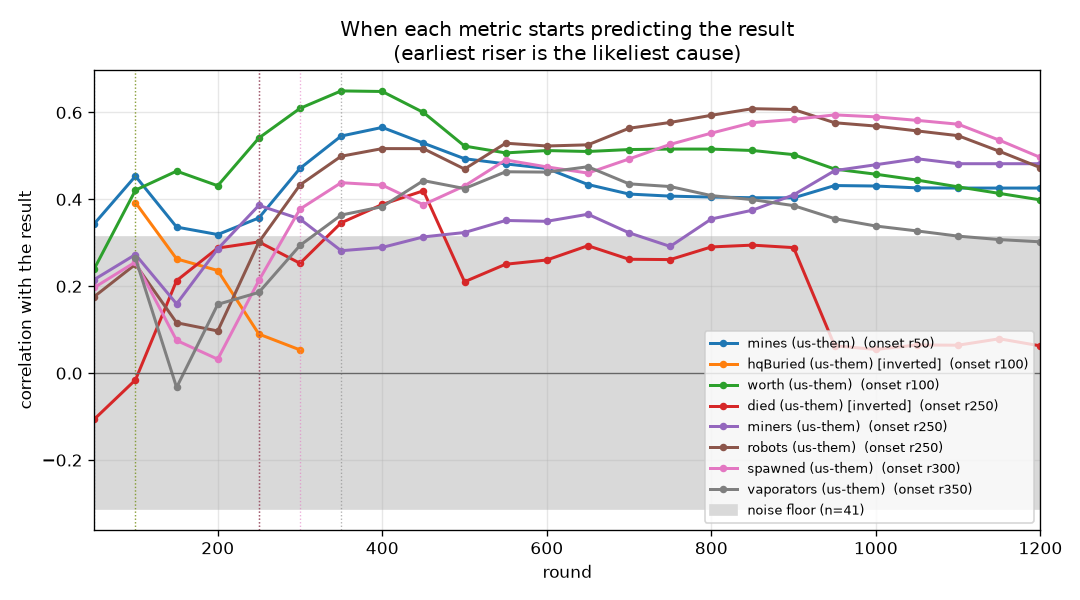
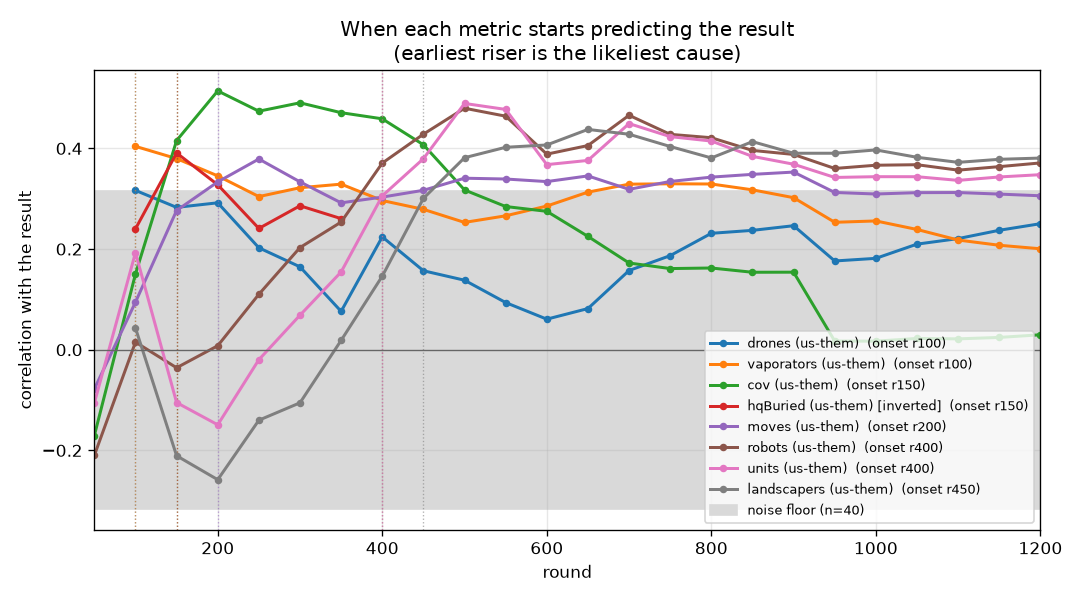
Submission block 20260926-050207-scrim-g_iter12 posted (g_iter12)
Claude-Session: https://claude.ai/code/session_015tNyF5ucwWW1mudpEQTT25

diff --git a/progress/ONSET.md b/progress/ONSET.md
@@ -1,6 +1,6 @@
 # Which metric starts predicting the result first
 
-41 games, 20 wins. Noise floor about 0.31; a correlation inside that band is not evidence.
+40 games, 20 wins. Noise floor about 0.32; a correlation inside that band is not evidence.
 
 Every metric is oriented so **higher is better for us**, so a positive correlation always means
 "this being better goes with winning". `~avg` is the running mean over all rounds so far rather than
@@ -12,46 +12,46 @@ See `progress/METRICS.md` for how each quantity is computed.
 
 | onset | anti | metric | peak corr | r100 | r200 | r300 | r400 | r600 | r900 |
 |---|---|---|---|---|---|---|---|---|---|
-| r50 | - | mines (us-them) | +0.57 | +0.45 | +0.32 | +0.47 | +0.57 | +0.47 | +0.40 |
-| r50 | - | mines (us-them) ~avg | +0.54 | +0.44 | +0.37 | +0.39 | +0.45 | +0.52 | +0.50 |
-| r100 | - | hqBuried (us-them) [inverted] | +0.39 | +0.39 | +0.24 | +0.05 | . | . | . |
-| r100 | - | hqBuried (us-them) [inverted] ~avg | +0.40 | +0.40 | +0.23 | +0.07 | -0.15 | -0.14 | -0.14 |
-| r100 | - | worth (us-them) | +0.65 | +0.42 | +0.43 | +0.61 | +0.65 | +0.51 | +0.50 |
-| r100 | - | worth (us-them) ~avg | +0.65 | +0.39 | +0.50 | +0.58 | +0.65 | +0.60 | +0.55 |
-| r250 | - | died (us-them) [inverted] | +0.42 | -0.02 | +0.29 | +0.25 | +0.39 | +0.26 | +0.29 |
-| r250 | - | miners (us-them) | +0.49 | +0.27 | +0.29 | +0.35 | +0.29 | +0.35 | +0.41 |
-| r250 | - | robots (us-them) | +0.61 | +0.25 | +0.10 | +0.43 | +0.52 | +0.52 | +0.61 |
-| r300 | - | miners (us-them) ~avg | +0.50 | +0.28 | +0.23 | +0.30 | +0.30 | +0.31 | +0.34 |
-| r300 | - | spawned (us-them) | +0.59 | +0.26 | +0.03 | +0.38 | +0.43 | +0.47 | +0.58 |
-| r350 | - | died (us-them) [inverted] ~avg | +0.39 | -0.02 | +0.20 | +0.27 | +0.37 | +0.32 | +0.31 |
-| r350 | - | robots (us-them) ~avg | +0.61 | +0.25 | +0.14 | +0.25 | +0.41 | +0.54 | +0.61 |
-| r350 | - | vaporators (us-them) | +0.48 | +0.26 | +0.16 | +0.29 | +0.38 | +0.46 | +0.39 |
-| r350 | - | vaporators (us-them) ~avg | +0.48 | +0.26 | +0.15 | +0.24 | +0.34 | +0.47 | +0.46 |
-| r400 | - | units (us-them) | +0.58 | +0.34 | +0.10 | +0.25 | +0.32 | +0.47 | +0.58 |
-| r500 | - | spawned (us-them) ~avg | +0.63 | +0.25 | +0.11 | +0.19 | +0.28 | +0.46 | +0.57 |
-| r550 | - | landscapers (us-them) | +0.51 | +0.09 | -0.09 | -0.07 | +0.07 | +0.40 | +0.50 |
-| r550 | - | units (us-them) ~avg | +0.58 | +0.34 | +0.15 | +0.18 | +0.23 | +0.36 | +0.57 |
-| r600 | - | digs (us-them) | +0.50 | -0.00 | +0.27 | +0.27 | +0.26 | +0.32 | +0.48 |
-| r600 | - | dirtDeps (us-them) | +0.49 | +0.14 | +0.26 | +0.25 | +0.25 | +0.30 | +0.46 |
-| r600 | - | moves (us-them) | +0.52 | +0.23 | +0.26 | +0.24 | +0.23 | +0.30 | +0.42 |
-| r650 | - | pickups (us-them) | +0.37 | +0.10 | +0.05 | +0.23 | +0.30 | +0.30 | +0.34 |
-| r700 | - | pickups (us-them) ~avg | +0.33 | +0.10 | +0.05 | +0.19 | +0.27 | +0.29 | +0.33 |
-| r750 | - | digs (us-them) ~avg | +0.48 | -0.02 | +0.19 | +0.24 | +0.24 | +0.25 | +0.38 |
-| r750 | - | landscapers (us-them) ~avg | +0.47 | +0.11 | -0.10 | -0.12 | -0.07 | +0.11 | +0.45 |
-| r750 | - | moves (us-them) ~avg | +0.44 | +0.23 | +0.26 | +0.25 | +0.23 | +0.25 | +0.35 |
-| r800 | - | dirtDeps (us-them) ~avg | +0.46 | +0.11 | +0.21 | +0.22 | +0.22 | +0.23 | +0.35 |
-| r900 | r200 | netguns (us-them) | +0.32 | . | -0.32 | -0.19 | -0.19 | +0.26 | +0.30 |
-| r1150 | - | drones (us-them) | +0.36 | +0.20 | +0.08 | +0.29 | +0.29 | +0.12 | +0.30 |
-| - | r750 | aba (us-them) [inverted] | -0.41 | +0.16 | -0.17 | -0.09 | +0.03 | -0.22 | -0.37 |
-| - | r1050 | aba (us-them) [inverted] ~avg | -0.35 | +0.16 | -0.11 | -0.10 | -0.01 | -0.10 | -0.28 |
-| - | - | cov (us-them) | -0.24 | -0.02 | -0.15 | -0.19 | -0.05 | -0.03 | -0.09 |
-| - | - | cov (us-them) ~avg | -0.28 | -0.06 | -0.21 | -0.25 | -0.23 | -0.12 | -0.12 |
-| - | - | drones (us-them) ~avg | +0.29 | +0.20 | +0.18 | +0.27 | +0.29 | +0.20 | +0.26 |
+| r100 | - | drones (us-them) | +0.32 | +0.32 | +0.29 | +0.16 | +0.22 | +0.06 | +0.25 |
+| r100 | - | drones (us-them) ~avg | +0.35 | +0.35 | +0.33 | +0.27 | +0.20 | +0.16 | +0.20 |
+| r100 | - | vaporators (us-them) | +0.40 | +0.40 | +0.35 | +0.32 | +0.30 | +0.29 | +0.30 |
+| r100 | - | vaporators (us-them) ~avg | +0.40 | +0.40 | +0.39 | +0.33 | +0.30 | +0.26 | +0.28 |
+| r150 | - | cov (us-them) | +0.51 | +0.15 | +0.51 | +0.49 | +0.46 | +0.27 | +0.15 |
+| r150 | - | hqBuried (us-them) [inverted] | +0.39 | +0.24 | +0.33 | +0.29 | . | . | . |
+| r150 | - | hqBuried (us-them) [inverted] ~avg | +0.36 | +0.23 | +0.28 | +0.22 | +0.20 | +0.23 | +0.26 |
+| r200 | - | cov (us-them) ~avg | +0.49 | +0.06 | +0.38 | +0.44 | +0.49 | +0.37 | +0.27 |
+| r200 | - | moves (us-them) | +0.38 | +0.09 | +0.33 | +0.33 | +0.30 | +0.33 | +0.35 |
+| r250 | - | moves (us-them) ~avg | +0.34 | +0.04 | +0.27 | +0.34 | +0.31 | +0.33 | +0.33 |
+| r400 | - | robots (us-them) | +0.48 | +0.02 | +0.01 | +0.20 | +0.37 | +0.39 | +0.39 |
+| r400 | - | units (us-them) | +0.49 | +0.19 | -0.15 | +0.07 | +0.31 | +0.37 | +0.37 |
+| r450 | - | landscapers (us-them) | +0.44 | +0.04 | -0.26 | -0.11 | +0.15 | +0.41 | +0.39 |
+| r450 | - | spawned (us-them) | +0.44 | -0.01 | -0.06 | +0.21 | +0.30 | +0.36 | +0.41 |
+| r450 | - | worth (us-them) | +0.38 | +0.18 | +0.18 | +0.18 | +0.26 | +0.32 | +0.36 |
+| r500 | - | miners (us-them) | +0.34 | +0.11 | -0.07 | +0.25 | +0.28 | +0.14 | +0.11 |
+| r500 | - | robots (us-them) ~avg | +0.41 | -0.06 | -0.13 | +0.00 | +0.13 | +0.37 | +0.40 |
+| r550 | - | netguns (us-them) | +0.43 | . | +0.19 | +0.17 | +0.22 | +0.37 | +0.41 |
+| r550 | - | units (us-them) ~avg | +0.41 | +0.09 | -0.19 | -0.10 | +0.03 | +0.33 | +0.41 |
+| r650 | - | netguns (us-them) ~avg | +0.40 | . | +0.21 | +0.17 | +0.19 | +0.28 | +0.37 |
+| r650 | - | spawned (us-them) ~avg | +0.38 | -0.08 | -0.18 | -0.03 | +0.09 | +0.29 | +0.38 |
+| r700 | r200 | landscapers (us-them) ~avg | +0.44 | +0.03 | -0.32 | -0.23 | -0.11 | +0.22 | +0.44 |
+| r800 | - | worth (us-them) ~avg | +0.31 | +0.12 | +0.09 | +0.13 | +0.15 | +0.28 | +0.31 |
+| - | r400 | aba (us-them) [inverted] | -0.35 | +0.08 | +0.05 | -0.08 | -0.30 | -0.30 | -0.34 |
+| - | r1100 | aba (us-them) [inverted] ~avg | -0.32 | +0.04 | +0.00 | -0.03 | -0.15 | -0.26 | -0.28 |
+| - | - | died (us-them) [inverted] | +0.24 | +0.21 | +0.19 | +0.01 | +0.23 | +0.10 | +0.04 |
+| - | - | died (us-them) [inverted] ~avg | +0.23 | +0.21 | +0.17 | +0.09 | +0.13 | +0.20 | +0.17 |
+| - | - | digs (us-them) | +0.25 | +0.06 | -0.22 | -0.11 | +0.01 | +0.13 | +0.14 |
+| - | - | digs (us-them) ~avg | -0.21 | +0.03 | -0.21 | -0.17 | -0.06 | +0.09 | +0.13 |
+| - | - | dirtDeps (us-them) | -0.26 | +0.09 | -0.26 | -0.13 | -0.01 | +0.10 | +0.12 |
+| - | - | dirtDeps (us-them) ~avg | -0.29 | +0.07 | -0.29 | -0.20 | -0.08 | +0.08 | +0.11 |
 | - | - | drowned (us-them) [inverted] | . | . | . | . | . | . | . |
 | - | - | drowned (us-them) [inverted] ~avg | . | . | . | . | . | . | . |
-| - | r200 | netguns (us-them) ~avg | -0.32 | . | -0.32 | -0.23 | -0.21 | -0.02 | +0.16 |
-| - | r700 | soup (us-them) | -0.47 | +0.08 | +0.22 | +0.16 | +0.03 | -0.21 | -0.40 |
-| - | - | soup (us-them) ~avg | +0.28 | +0.12 | +0.24 | +0.25 | +0.27 | +0.10 | -0.23 |
+| - | - | miners (us-them) ~avg | +0.26 | +0.01 | -0.12 | -0.01 | +0.11 | +0.25 | +0.17 |
+| - | - | mines (us-them) | +0.29 | +0.24 | +0.06 | +0.08 | +0.17 | +0.28 | +0.29 |
+| - | - | mines (us-them) ~avg | +0.23 | +0.20 | +0.03 | +0.03 | +0.07 | +0.20 | +0.22 |
+| - | - | pickups (us-them) | +0.09 | +0.07 | +0.09 | -0.00 | +0.01 | -0.08 | -0.04 |
+| - | - | pickups (us-them) ~avg | +0.13 | +0.13 | +0.05 | +0.01 | -0.01 | -0.05 | -0.06 |
+| - | r300 | soup (us-them) | -0.46 | +0.14 | -0.12 | -0.46 | -0.34 | -0.16 | -0.10 |
+| - | r350 | soup (us-them) ~avg | -0.35 | +0.22 | +0.07 | -0.22 | -0.35 | -0.30 | -0.20 |
 
 **Reading it.** Earliest onset is the first place to look: temporal precedence is the one causal hint a
 correlation can honestly give. Late-onset metrics are usually the scoreboard rather than the cause -- by then
